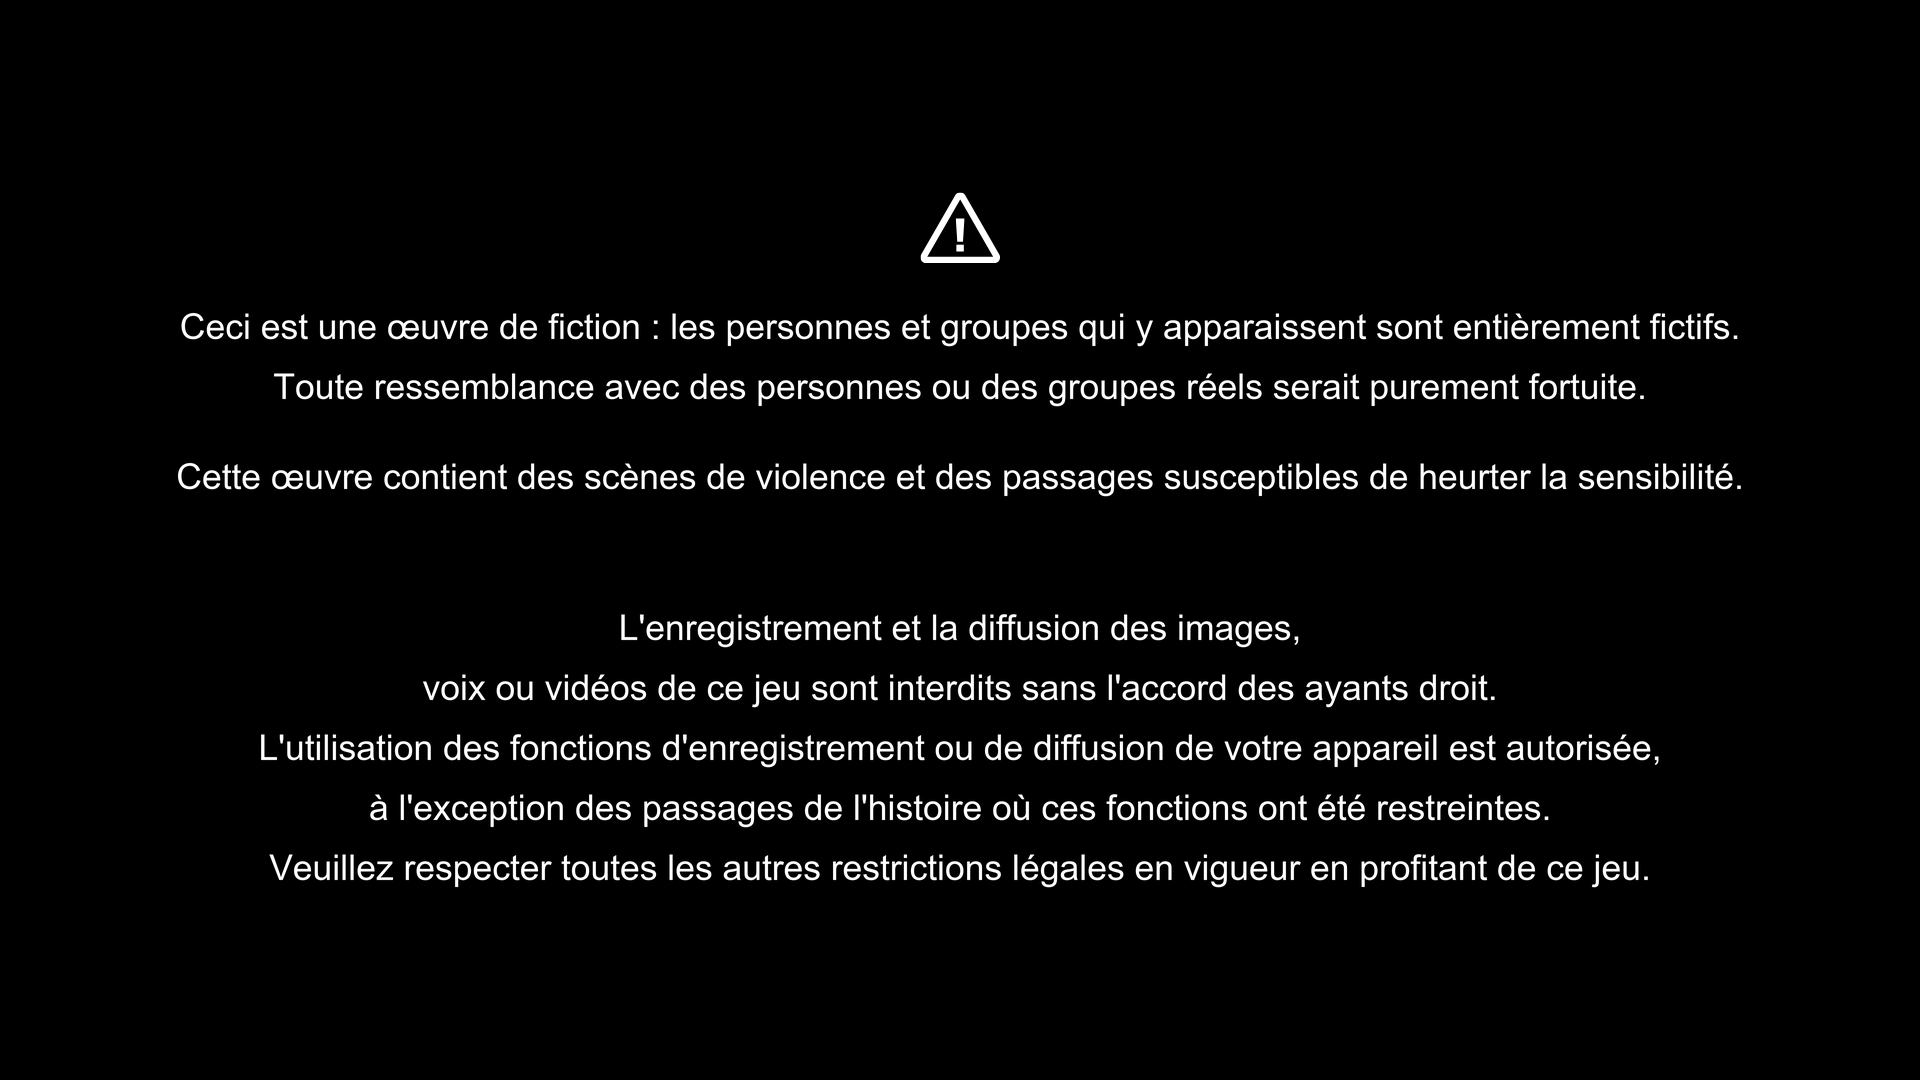
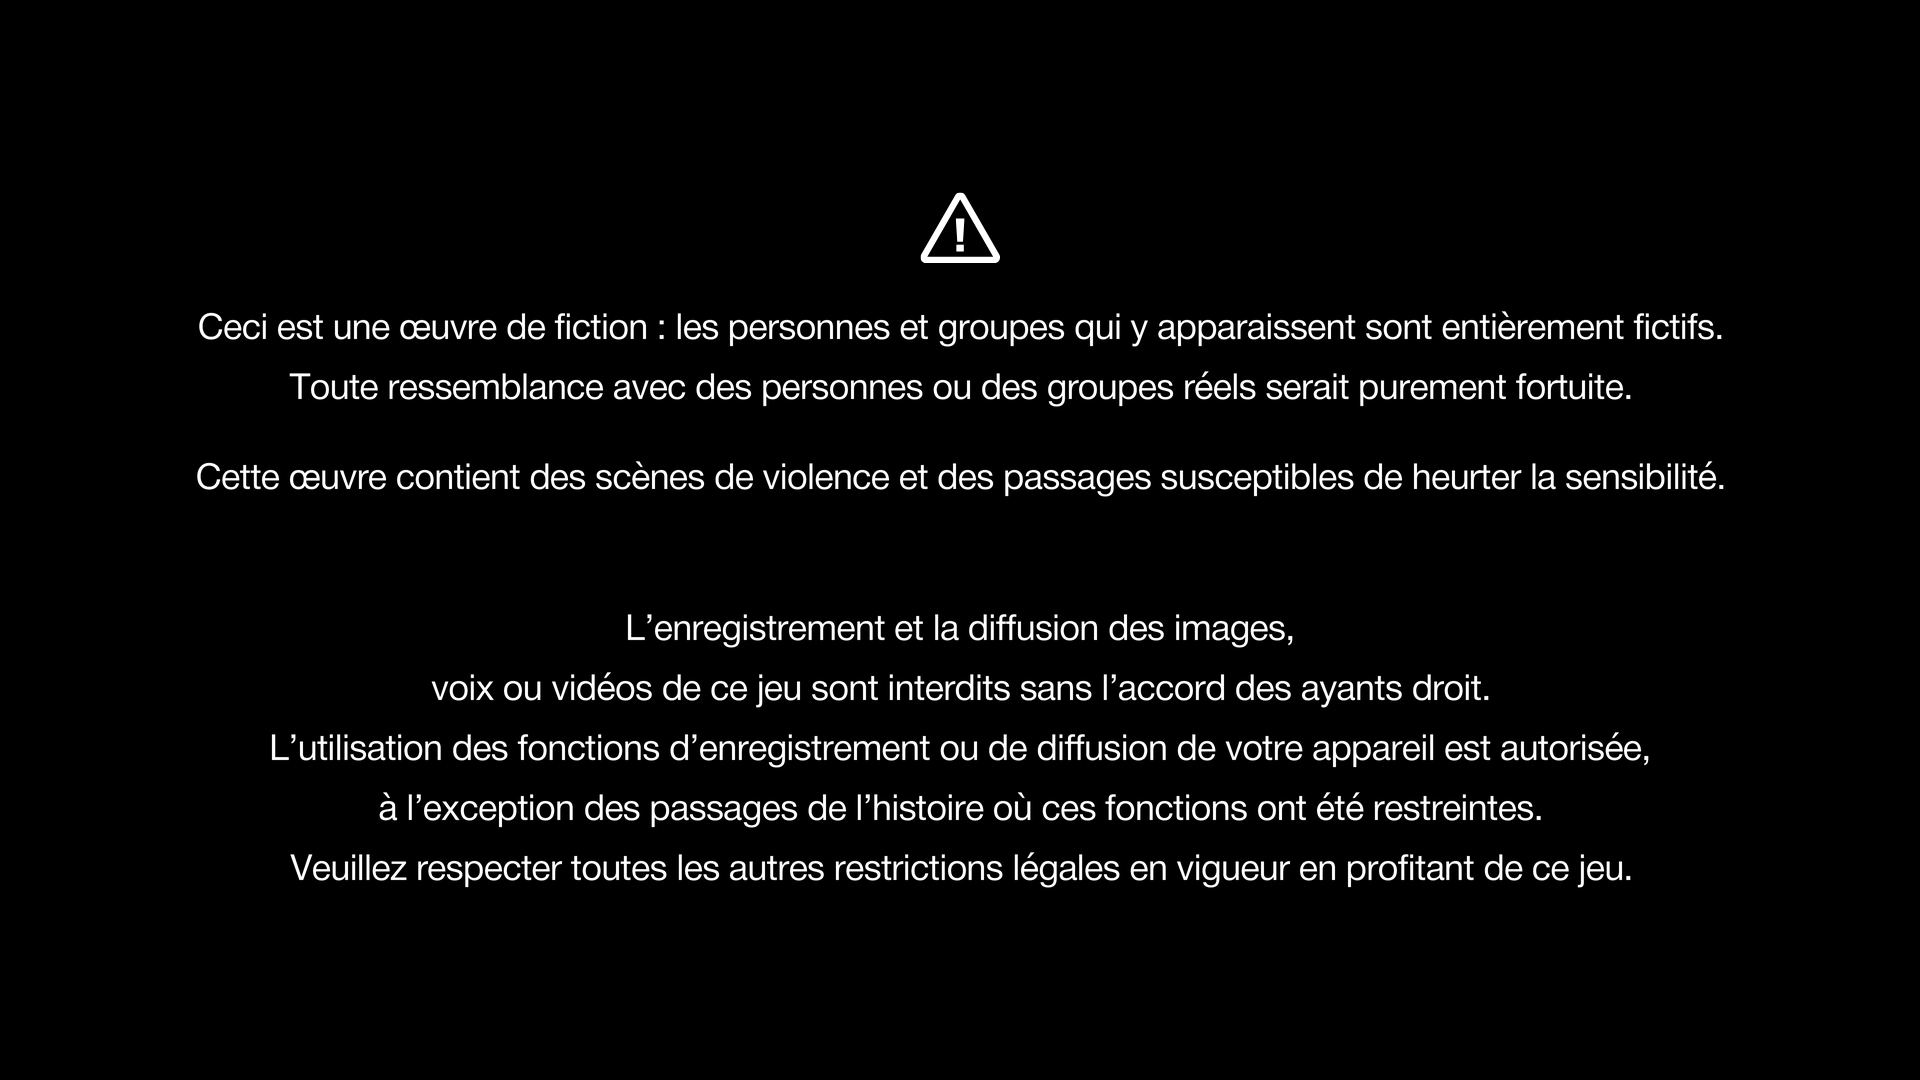
édition archive_read, archive_return, caution

diff --git a/utils/images/buttons.py b/utils/images/buttons.py
@@ -12,12 +12,14 @@ from utils.images.game import GameImage
 from utils.images.text import TextLayer, first_letter, fit_lines
 
 GLOW = 8     # extent of the glow around the letters (px)
+BUTTON_ALPHA = 20  # the buttons may be half transparent, their surroundings are not drawn
 BORDER = 4   # thickness of the frame of a button (px), never redrawn
 MARGIN = 14  # px between a label that has to be reduced and the edges of its button
 
 
 def _light(pixels):
-	return pixels[..., :3].sum(-1)
+	"""Brightness as displayed: the buttons may be half transparent."""
+	return pixels[..., :3].sum(-1) * pixels[..., 3] / 255
 
 
 def _erase_cell(cell, text):
@@ -26,7 +28,7 @@ def _erase_cell(cell, text):
 	between the button just left and just right of it: the button changes from top to
 	bottom, hardly from left to right."""
 	clean = cell.copy()
-	inner = ndimage.binary_erosion(cell[..., 3] > 200, iterations=BORDER)  # inside the frame
+	inner = ndimage.binary_erosion(cell[..., 3] > BUTTON_ALPHA, iterations=BORDER)  # inside the frame
 	text &= inner
 	if not text.any():
 		return clean
@@ -42,13 +44,22 @@ def _erase_cell(cell, text):
 
 
 def _label(original, clean, text):
-	"""One cell redrawn: the new label with the color and the glow of the English one."""
+	"""One cell redrawn: the new label with the color (light or dark) and the glow of the
+	English one."""
 	gain = _light(original) - _light(clean)
-	letters = (gain > 0.5 * gain.max()) & (_light(original) > 600)
+	dark = np.median(gain[np.abs(gain) > 0.5 * np.abs(gain).max()]) < 0  # dark text on a light button
+	if dark:
+		gain = -gain
+		letters = gain > 0.5 * gain.max()
+	else:
+		letters = (gain > 0.5 * gain.max()) & (_light(original) > 600)
 	cap, baseline = first_letter(letters)
 	xs = np.flatnonzero(letters.any(0))
 	center = (xs[0] + xs[-1] + 1) / 2
-	button = np.flatnonzero((clean[..., 3] > 200).any(0))  # the button inside its cell
+	# the button inside its cell: the columns at least half as opaque as its body (not the
+	# thin glow around its frame)
+	opacity = clean[..., 3].mean(0)
+	button = np.flatnonzero(opacity > 0.5 * opacity.max())
 	limit = 2 * min(center - button[0], button[-1] + 1 - center) - 2 * MARGIN
 	_, _, [(mask, offset)] = fit_lines([text], 'helvetica', size_for_height('helvetica', cap), letters, cap, limit)
 	layer = TextLayer(original.shape[1], original.shape[0])
@@ -57,9 +68,9 @@ def _label(original, clean, text):
 	# glow: the English one around its letters, as an opacity of its color over the background
 	around = ring(letters, 1, 12) & (gain > 15)
 	result = clean
-	if around.sum() > 50:
+	if not dark and around.sum() > 50:
 		color = np.median(original[around & (gain > np.percentile(gain[around], 75))][:, :3], 0)
-		span = np.maximum(_light(color[None, None]) - _light(clean), 1)
+		span = np.maximum(color.sum() - _light(clean), 1)
 		opacity = np.clip(gain / span, 0, 1)
 		sigma, strength = fit_blur(letters, opacity, ring(letters, 1, 12), np.arange(1.0, 8.0, 0.5))
 		result = over(result, color, blur(alpha, sigma, strength))
@@ -67,16 +78,21 @@ def _label(original, clean, text):
 
 
 def glow_tabs(image: GameImage, config: dict):
-	"""config: {"texts": label of each column, "states": number of rows}."""
+	"""config: {"texts": label of each column, "states": number of rows}. Buttons whose
+	states are side by side repeat their label in "texts", with "states": 1."""
 	original = image.target
-	# the English text: brighter than the same image in every other language
-	text = _light(original) - np.min([_light(o) for o in image.language_variants()], 0) > 60
+	# the English text: where the image differs from the same one in every other language
+	text = np.min([np.abs(_light(original) - _light(o)) for o in image.language_variants()], 0) > 60
 	columns, rows = len(config['texts']), config['states']
 	width, height = image.width // columns, image.height // rows
 	result = original.copy()
 	for row in range(rows):
 		for column, label in enumerate(config['texts']):
 			cell = (slice(row * height, (row + 1) * height), slice(column * width, (column + 1) * width))
-			clean = _erase_cell(original[cell], text[cell].copy())
+			found = text[cell].copy()
+			if found.sum() < 50:  # same text as the other languages there: contrast with the button
+				inner = original[cell][..., 3] > BUTTON_ALPHA
+				found = np.abs(_light(original[cell]) - np.median(_light(original[cell])[inner])) > 60
+			clean = _erase_cell(original[cell], found)
 			result[cell] = _label(original[cell], clean, label)
 	image.target = result

diff --git a/utils/images/text_boxes.py b/utils/images/text_boxes.py
@@ -1,7 +1,8 @@
-"""Lines replaced one by one in an image with a transparent background (menus, help
-pages, settings): each box [left, top, right, bottom, text] holds one English line, which
-is removed; the new text is written at its place (same edge, baseline, size, letter
-spacing and color), tightened then reduced if it is wider than the box. A text with "\n"
+"""Lines replaced one by one in an image with a plain background, transparent or of one
+color (menus, help pages, settings, warning screen): each box [left, top, right, bottom,
+text] holds one English line, which is removed; the new text is written at its place
+(same edge, baseline, size, letter spacing and color), tightened then reduced if it is
+wider than the box. A text with "\n"
 is written on several lines, centered vertically on the English line."""
 from statistics import median
 
@@ -15,6 +16,21 @@ from utils.images.text import MIN_TRACKING, SS, TextLayer, first_letter, fit_lin
 LINE_PITCH = 1.45  # spacing of the lines of a text written on several lines, in cap heights
 
 
+def _background(area):
+	"""Plain background of a box (most of its pixels): transparent, or a flat color."""
+	background = np.median(area.reshape(-1, 4), 0)
+	return background if background[3] > 128 else np.zeros(4)
+
+
+def _letters(area):
+	"""Letters of a box: opaque pixels on a transparent background, or pixels clearly
+	different from a flat background."""
+	background = _background(area)
+	if background[3] == 0:
+		return area[..., 3] > 128
+	return np.abs(area - background).max(-1) > 96
+
+
 def text_boxes(image: GameImage, config: dict):
 	"""config: {"font": name in FONTS (Helvetica Neue by default),
 	"align": "left" (default), "right" or "center", like the English lines,
@@ -25,7 +41,7 @@ def text_boxes(image: GameImage, config: dict):
 	original, result = image.target.copy(), image.target.copy()
 	measured = []
 	for x0, y0, x1, y1, text in config['boxes']:
-		letters = original[y0:y1, x0:x1, 3] > 128
+		letters = _letters(original[y0:y1, x0:x1])
 		if not letters.any():
 			raise ValueError(f'{image.name} : pas de texte dans la zone {[x0, y0, x1, y1]}')
 		measured.append((letters, *first_letter(letters)))
@@ -49,6 +65,6 @@ def text_boxes(image: GameImage, config: dict):
 			width = mask.shape[1] / SS
 			x = {'left': left, 'right': right - width, 'center': (x0 + x1 - width) / 2}[align]
 			layer.paste(mask, offset, x, first_baseline + i * LINE_PITCH * cap)
-		result[y0:y1, x0:x1] = 0  # the English line, on a transparent background
-		result = over(result, np.median(area[area[..., 3] > 250][:, :3], 0), layer.alpha())
+		result[y0:y1, x0:x1] = _background(area)  # the English line removed
+		result = over(result, np.median(area[letters & (area[..., 3] > 250)][:, :3], 0), layer.alpha())
 	image.target = result

diff --git a/utils/images/text.py b/utils/images/text.py
@@ -68,7 +68,8 @@ def first_letter(mask: np.ndarray) -> tuple[int, int]:
 	tolerance = max(1.5, 0.04 * tallest)
 	on_line = [(h, bottom) for h, bottom in parts if abs(bottom - baseline) <= tolerance]
 	tallest = max(h for h, _ in on_line)
-	return next((h, bottom) for h, bottom in on_line if h >= 0.7 * tallest)
+	# a capital (or an ascender, as tall), not a lowercase letter (x-height: 0.7 of a capital)
+	return next((h, bottom) for h, bottom in on_line if h >= 0.85 * tallest)
 
 
 def letter_gap(mask: np.ndarray, cap: float) -> float:
